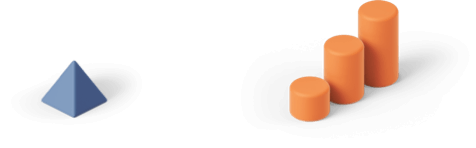
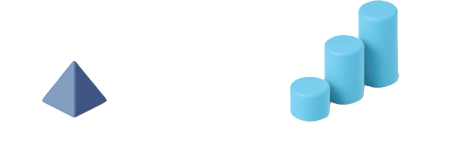
pic added edited

diff --git a/css/app.css b/css/app.css
@@ -2671,12 +2671,12 @@ img {
 }
 
 .btn_orange {
-    background: #FF6E30;
+    background: #731abc;
     color: #ffffff;
 }
 
 .btn_orange:hover {
-    background: #fc4b00;
+    background: #be30b6;
 }
 
 .btn_transparent {
@@ -2829,7 +2829,7 @@ body.dark .contact .field__textarea {
 }
 
 .header__link.active {
-    color: #FF6E30;
+    color: #731abc;
 }
 
 .header__link:not(:last-child) {
@@ -2913,7 +2913,7 @@ body.dark .header__link:hover {
 }
 
 body.dark .header__link.active {
-    color: #FF6E30;
+    color: #731abc;
 }
 
 body.dark .header__burger:before,
@@ -3182,9 +3182,9 @@ body.dark .header__burger:after {
     margin: -21px 8px 0;
     padding: 0 50px;
     border-radius: 0 0 24px 24px;
-    background: -webkit-linear-gradient(359.67deg, #FEA989 0.02%, #99B4DB 98.92%);
-    background: -o-linear-gradient(359.67deg, #FEA989 0.02%, #99B4DB 98.92%);
-    background: linear-gradient(90.33deg, #FEA989 0.02%, #99B4DB 98.92%);
+    background: -webkit-linear-gradient(359.67deg, #731abc 0.02%, #99B4DB 98.92%);
+    background: -o-linear-gradient(359.67deg, #731abc 0.02%, #99B4DB 98.92%);
+    background: linear-gradient(90.33deg, #731abc 0.02%, #99B4DB 98.92%);
 }
 
 .quality__item {
@@ -4328,7 +4328,7 @@ body.dark .review .owl-carousel .owl-nav button.owl-next:hover .icon {
 }
 
 .footer__nav .footer__link.active {
-    color: #FF6E30;
+    color: #731abc;
 }
 
 .footer__nav .footer__link:not(:last-child) {
@@ -4396,7 +4396,7 @@ body.dark .footer__link:hover {
 }
 
 body.dark .footer__link.active {
-    color: #FF6E30;
+    color: #731abc;
 }
 
 body.dark .footer__copyright {
@@ -4480,7 +4480,7 @@ body.dark .footer__social .footer__link:hover .icon {
     width: 24px;
     height: 24px;
     border-radius: 50%;
-    background: #FF6E30;
+    background: #731abc;
     -webkit-box-shadow: 0px 4px 8px rgba(0, 0, 0, 0.1);
     box-shadow: 0px 4px 8px rgba(0, 0, 0, 0.1);
     -webkit-transition: all .2s;
@@ -4556,14 +4556,14 @@ body.dark .footer__social .footer__link:hover .icon {
 
 .download__info a {
     border-bottom: 1px solid transparent;
-    color: #FF6E30;
+    color: #731abc;
     -webkit-transition: border-color .2s;
     -o-transition: border-color .2s;
     transition: border-color .2s;
 }
 
 .download__info a:hover {
-    border-color: #FF6E30;
+    border-color: #731abc;
 }
 
 .download__btn {
@@ -5286,7 +5286,7 @@ body.dark .pricing__view .icon {
     text-align: center;
     font-size: 40px;
     font-weight: 500;
-    color: #FF6E30;
+    color: #731abc;
 }
 
 .popup__number input:focus {
@@ -5979,7 +5979,7 @@ body.dark .comment .owl-carousel .owl-nav button.owl-next:hover .icon {
 }
 
 .questions__link:hover {
-    color: #FF6E30;
+    color: #731abc;
 }
 
 .questions__link.active {
@@ -6941,13 +6941,13 @@ screen and (max-height: 300px) {
         color: rgba(39, 46, 53, 0.7);
     }
     .header__link.active {
-        color: #FF6E30;
+        color: #731abc;
     }
     body.dark .header__link {
         color: rgba(255, 255, 255, 0.7);
     }
     body.dark .header__link.active {
-        color: #FF6E30;
+        color: #731abc;
     }
     .main__wrap {
         margin-bottom: 100px;
@@ -7263,7 +7263,7 @@ screen and (max-height: 300px) {
         color: #272E35;
     }
     .header__link.active {
-        color: #FF6E30;
+        color: #731abc;
     }
     .header__link:not(:last-child) {
         margin: 16px 0 0 24px;
@@ -7295,7 +7295,7 @@ screen and (max-height: 300px) {
         color: #ffffff;
     }
     body.dark .header__link.active {
-        color: #FF6E30;
+        color: #731abc;
     }
     .main {
         padding: 0;

diff --git a/css/app-cda0a12a9c986.css b/css/app-cda0a12a9c986.css
@@ -2210,7 +2210,7 @@ img {
 }
 
 .btn_orange {
-    background: #FF6E30;
+    background: #731abc;
     color: #ffffff;
 }
 
@@ -2501,18 +2501,18 @@ body.dark .btn_border:hover .icon {
 }
 
 .header__link.active {
-    color: #FF6E30;
+    color: #731abc;
 }
 
 @media only screen and (max-width: 1023px) {
     .header__link.active {
-        color: #FF6E30;
+        color: #731abc;
     }
 }
 
 @media only screen and (max-width: 767px) {
     .header__link.active {
-        color: #FF6E30;
+        color: #731abc;
     }
 }
 
@@ -2656,18 +2656,18 @@ body.dark .header__link:hover {
 }
 
 body.dark .header__link.active {
-    color: #FF6E30;
+    color: #731abc;
 }
 
 @media only screen and (max-width: 1023px) {
     body.dark .header__link.active {
-        color: #FF6E30;
+        color: #731abc;
     }
 }
 
 @media only screen and (max-width: 767px) {
     body.dark .header__link.active {
-        color: #FF6E30;
+        color: #731abc;
     }
 }
 
@@ -5280,7 +5280,7 @@ body.dark .review .owl-carousel .owl-nav button.owl-next:hover .icon {
 }
 
 .footer__nav .footer__link.active {
-    color: #FF6E30;
+    color: #731abc;
 }
 
 .footer__nav .footer__link:not(:last-child) {
@@ -5357,7 +5357,7 @@ body.dark .footer__link:hover {
 }
 
 body.dark .footer__link.active {
-    color: #FF6E30;
+    color: #731abc;
 }
 
 body.dark .footer__copyright {
@@ -5450,7 +5450,7 @@ body.dark .footer__social .footer__link:hover .icon {
     width: 24px;
     height: 24px;
     border-radius: 50%;
-    background: #FF6E30;
+    background: #731abc;
     box-shadow: 0px 4px 8px rgba(0, 0, 0, 0.1);
     transition: all .2s;
 }
@@ -5542,12 +5542,12 @@ body.dark .footer__social .footer__link:hover .icon {
 
 .download__info a {
     border-bottom: 1px solid transparent;
-    color: #FF6E30;
+    color: #731abc;
     transition: border-color .2s;
 }
 
 .download__info a:hover {
-    border-color: #FF6E30;
+    border-color: #731abc;
 }
 
 .download__btn {
@@ -6644,7 +6644,7 @@ body.dark .pricing__view .icon {
     text-align: center;
     font-size: 40px;
     font-weight: 500;
-    color: #FF6E30;
+    color: #731abc;
 }
 
 @media only screen and (max-width: 767px) {
@@ -7728,7 +7728,7 @@ body.dark .comment .owl-carousel .owl-nav button.owl-next:hover .icon {
 }
 
 .questions__link:hover {
-    color: #FF6E30;
+    color: #731abc;
 }
 
 .questions__link.active {

diff --git a/index.html b/index.html
@@ -56,7 +56,7 @@
     <header class="header" style="padding-top: 10px;padding-bottom: 10px;">
       <div class="header__center center">
           <a class="header__logo" href="index.html"><img class="header__pic header__pic_dark"
-                  src="img/newwhite.png" alt="" /><img class="header__pic header__pic_light"
+                  src="img/white vl2nn.png" alt="" /><img class="header__pic header__pic_light"
                   src="img/newwhite.png" alt="" /></a>
           <div class="header__wrapper">
               <nav class="header__nav">
@@ -95,7 +95,7 @@
 
       <div class="main__center center">
         <div class="main__wrap">
-            <!-- <div class="stage">RISK-FREE 30 DAY TRIAL</div> -->
+            <div class="stage">We make IT simple, faster and less expensive</div>
             <h1 class="main__title d1">
                 <span data-aos="animation-scale-top text1"
                  data-aos-duration="600" style="font-size:45px;">The future
@@ -161,8 +161,8 @@
                       <img src="img/figures-2.1.png" alt="" />
                   </div>
                   <div class="quality__preview" data-aos="animation-translate-up" data-aos-duration="1000">
-                      <!-- <img src="img/figures-2.2.png" alt="" /> -->
-                      <img src="video/security122.png" style="height: 347px;width: 347px;" alt="">
+                      <img src="img/figures-2.2.png" alt="" />
+                      <!-- <img src="video/security122.png" style="height: 347px;width: 347px;" alt=""> -->
                   </div>
                   <div class="quality__preview" data-aos="animation-translate-down" data-aos-duration="1000"
                       data-aos-delay="400">
@@ -928,7 +928,7 @@
                           class="footer__pic footer__pic_dark"
                           src="img/white vl2nn.png" alt="" /><img
                           class="header__pic header__pic_light"
-                          src="img/whiteorangelogo.png" alt="" /></a>
+                          src="img/newwhite.png" alt="" /></a>
                   <!-- <div class="footer__text">
 Join us 
 </div> -->
